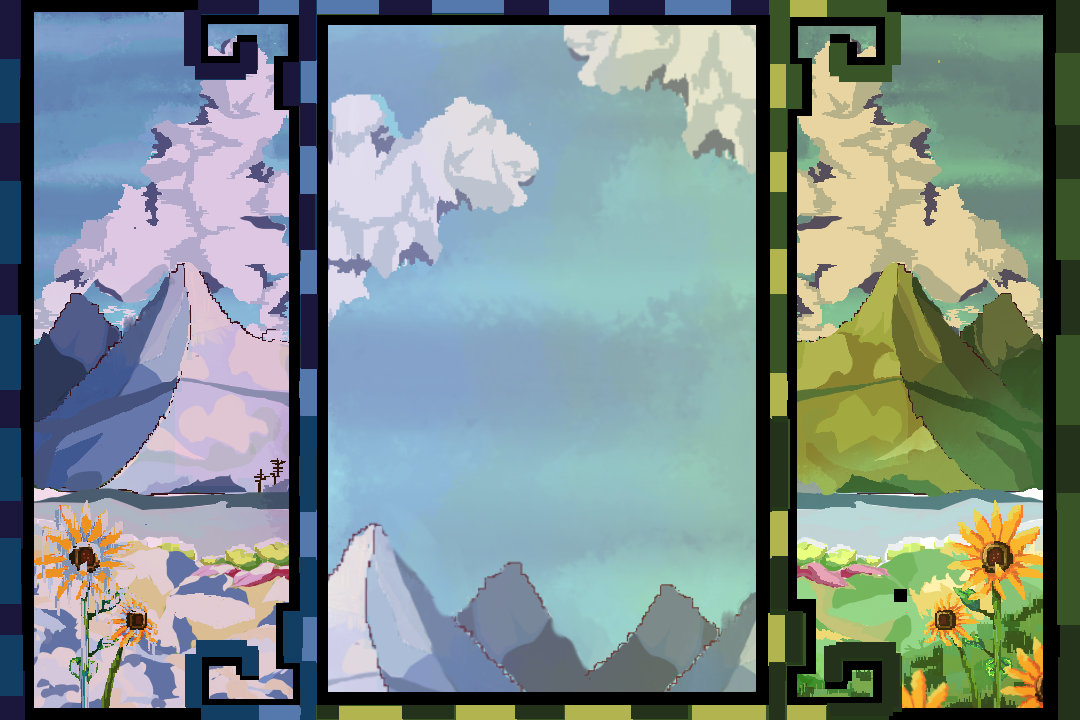
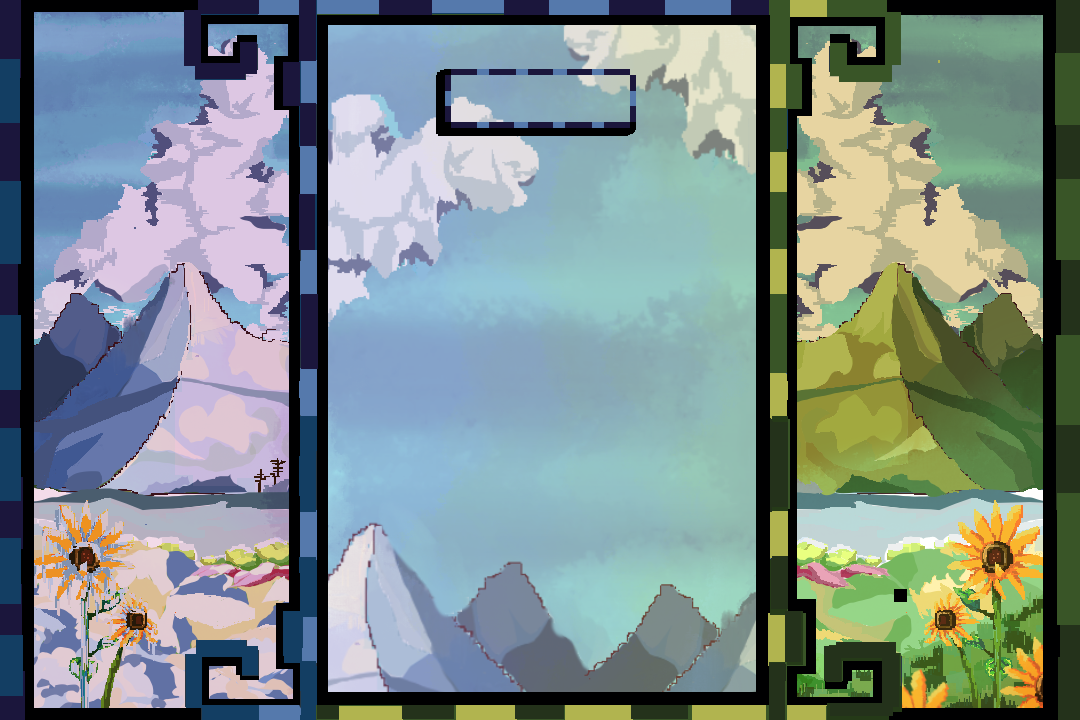
fix: Update-gameName

Changed region(s): [[0.3972, 0.0917, 0.6111, 0.2139]]

diff --git a/Game.java b/Game.java
@@ -11,8 +11,6 @@ import javax.sound.sampled.AudioInputStream;
 import javax.sound.sampled.AudioSystem;
 import javax.sound.sampled.LineEvent;   
 import javax.sound.sampled.LineListener;
-import java.io.File;
-import java.io.IOException;
 
 
 public class Game {
@@ -29,11 +27,13 @@ public class Game {
     private ImageIcon exitImg;
     private ImageIcon backgroundImage;
     private ImageIcon backImg;
+    private ImageIcon gameNameImg;
     private JLabel switchbackgroundJLabel;
     private JLabel scoreBox;
     private JLabel backgroundlabel;
     private JLabel timeBox;
     private JLabel countStart;
+    private JLabel gameName;
     private JButton backButton;
     private JButton playButton;
     private JButton exitButton;
@@ -45,7 +45,14 @@ public class Game {
     private boolean isStart = false;
     private String [] gameStartCount = {"  3","  2","  1"," GO!"};
     private int ind = 0;
-
+    
+    MouseAdapter labelMouseListener = new MouseAdapter() {
+        public void mousePressed(MouseEvent e) {
+            JLabel pressedLabel = (JLabel)e.getSource();
+            gameUpdate(pressedLabel);
+            playSound("src/sound/pop.wav");
+        }
+    };
     MouseAdapter wrongLabelListener = new MouseAdapter() {
         public void mousePressed(MouseEvent e) {
             JLabel pressedLabel = (JLabel)e.getSource();
@@ -54,19 +61,21 @@ public class Game {
             playSound("src/sound/quack.wav");
         }
     };
-    MouseAdapter  startGamelistener = new MouseAdapter() {
+    MouseAdapter startGamelistener = new MouseAdapter() {
         public void mouseClicked(MouseEvent e) {
             timeCounting = new Timer(1000,new ActionListener() {
-            public void actionPerformed(ActionEvent e) {
-                decreaseTimeCount();
-            }
-        });
-            gameStartCounting =  new Timer(1000, new ActionListener() {
-            public void actionPerformed(ActionEvent e ){
-                letsStart();
-            } 
-        });
-            if(playButton == (JButton)e.getSource()){
+                public void actionPerformed(ActionEvent e) {
+                    decreaseTimeCount();
+                }
+            });
+            gameStartCounting = new Timer(1000, new ActionListener() {
+                public void actionPerformed(ActionEvent e ) {
+                    letsStart();
+                }
+            });
+            if (playButton == (JButton)e.getSource()) {
+                switchbackgroundJLabel.remove(gameName);
+                switchbackgroundJLabel.repaint();
                 container.remove(switchbackgroundJLabel);
                 Components();
                 scoreBox();
@@ -82,14 +91,6 @@ public class Game {
             if(exitButton == (JButton)e.getSource()){
                 System.exit(0);
             }
-        }
-    };
-    
-    MouseAdapter labelMouseListener = new MouseAdapter() {
-        public void mousePressed(MouseEvent e) {
-            JLabel pressedLabel = (JLabel)e.getSource();
-            gameUpdate(pressedLabel);
-            playSound("src/sound/pop.wav");
         }
     };
     public static void main(String[] args) {
@@ -111,17 +112,18 @@ public class Game {
         backgroundlabel.setLayout(null);
 
         Components2();
+        showGameName(); // first time only.
 
         frame.setBounds(0, 0, FRAME_WIDTH, FRAME_HEIGHT);
         frame.setResizable(false);
         frame.setDefaultCloseOperation(JFrame.EXIT_ON_CLOSE);
-        frame.setLocationRelativeTo(null);//let the background in the middle
+        frame.setLocationRelativeTo(null); //let the background in the middle
         frame.setVisible(true);
     }
     private void decreaseTimeCount() {
         timeScedule -= 1;
         timeBox.setText("" + timeScedule);
-        if(timeScedule <= 0) {
+        if (timeScedule <= 0) {
             timeCounting.stop();
             container.remove(backgroundlabel);
             Components2();
@@ -132,18 +134,18 @@ public class Game {
             isStart = false;
             timeScedule = 60;
         }
-        if(timeScedule < 6){
+        if (timeScedule < 6) {
             timeBox.setForeground(new Color(255, 0, 0));
         }
     }
     private void letsStart(){
         ind++;
-        if(ind == gameStartCount.length) {
+        if (ind == gameStartCount.length) {
             gameStartCounting.stop();
             backgroundlabel.remove(countStart);
             container.repaint();
             
-            startFalling(7);
+            startFalling(15);
             timeCounting.start();
             ind = 0;
         }else {
@@ -166,7 +168,7 @@ public class Game {
     }
     private void textStartCount() {
         countStart = new JLabel(gameStartCount[ind]);
-        countStart.setBounds(FRAME_WIDTH/2 - (30*gameStartCount[3].length()),(FRAME_HEIGHT/2)-200,300,300);
+        countStart.setBounds(FRAME_WIDTH / 2  - (30 *gameStartCount[3].length()),(FRAME_HEIGHT/2)-200,300,300);
         countStart.setForeground(new Color(0, 0, 0));
         countStart.setFont(new Font("Comic Sans MS", Font.BOLD, 100));
         backgroundlabel.add(countStart, BorderLayout.CENTER);
@@ -184,20 +186,26 @@ public class Game {
         switchbackgroundJLabel.add(showScore, BorderLayout.CENTER);
         switchbackgroundJLabel.add(maxScoreLabel, BorderLayout.CENTER);
     }
+    private void showGameName() {
+        gameNameImg = new ImageIcon("src/img/gameName.png");
+        gameName = new JLabel(gameNameImg);
+        gameName.setBounds((FRAME_WIDTH / 2 - gameNameImg.getIconWidth() / 2) - 5, 75 , gameNameImg.getIconWidth(), gameNameImg.getIconHeight());
+        switchbackgroundJLabel.add(gameName);
+    }
     private void scoreBox() {
         Color textColor = new Color(255, 255, 255); // ตั้งค่าสี (RGB)
         Font font = new Font("Comic Sans MS", Font.BOLD, 25);
         scoreBox = new JLabel();
-        scoreBox.setBounds(60, 20, 150, 100);
+        scoreBox.setBounds(60, 30, 150, 100);
         backgroundlabel.add(scoreBox);
         scoreBox.setFont(font);
         scoreBox.setForeground(textColor);
         scoreBox.setText("Score: " + score);
 
         Color textColor2 = new Color(0, 0, 0); // ตั้งค่าสี (RGB)
-        Font font2 = new Font("Comic Sans MS", Font.BOLD, 60);
+        Font font2 = new Font("Comic Sans MS", Font.BOLD, 50);
         timeBox = new JLabel();
-        timeBox.setBounds((FRAME_WIDTH / 2) - 35, FRAME_HEIGHT / 20, 150, 100);
+        timeBox.setBounds((FRAME_WIDTH / 2) - 30, (FRAME_HEIGHT / 20) + 5, 150, 100);
         backgroundlabel.add(timeBox, BorderLayout.CENTER);
         timeBox.setFont(font2);
         timeBox.setForeground(textColor2);
@@ -221,37 +229,37 @@ public class Game {
         }
         scoreBox.setText("Score: " + score);
         clickedLabel.setVisible(false);
-
     }
     private void Components() {
-        backgroundImage = new ImageIcon("src/img/background.png");
+        backgroundImage = new ImageIcon("src/img/startbackground.png");
         backgroundlabel = new JLabel(backgroundImage);
         backgroundlabel.setLayout(null);
         container.add(backgroundlabel);
     }
     private void Components2() {
-        switchbackgroundImage = new ImageIcon("src/img/background.png");
-        switchbackgroundJLabel = new JLabel(backgroundImage);
+        switchbackgroundImage = new ImageIcon("src/img/startbackground.png");
+        switchbackgroundJLabel = new JLabel(switchbackgroundImage);
 
         backgroundlabel.setLayout(null);
         container.add(switchbackgroundJLabel);
         StartImg = new ImageIcon("src/img/start.png");
         playButton = new JButton();
         playButton.setIcon(StartImg);
-        playButton.setBounds(FRAME_WIDTH / 2 - StartImg.getIconWidth() / 2, FRAME_HEIGHT / 2 - StartImg.getIconHeight() / 2, StartImg.getIconWidth(), StartImg.getIconHeight());
+        playButton.setBounds(FRAME_WIDTH / 2 - StartImg.getIconWidth() / 2, 275, StartImg.getIconWidth(), StartImg.getIconHeight());
         playButton.setBorderPainted(false);
         playButton.setContentAreaFilled(false);
+        switchbackgroundJLabel.add(playButton, BorderLayout.CENTER);
+        playButton.addMouseListener(startGamelistener);
+        
         exitImg = new ImageIcon("src/img/EXIT.png");
         exitButton = new JButton();
         exitButton.setIcon(exitImg);
-        exitButton.setBounds(FRAME_WIDTH / 2 - exitImg.getIconWidth() / 2, FRAME_HEIGHT / 2 + StartImg.getIconHeight()/2 , exitImg.getIconWidth(), exitImg.getIconHeight());
+        exitButton.setBounds(FRAME_WIDTH / 2 - exitImg.getIconWidth() / 2, 470 , exitImg.getIconWidth(), exitImg.getIconHeight());
         exitButton.setBorderPainted(false);
         exitButton.setContentAreaFilled(false);
-        switchbackgroundJLabel.add(playButton);
-        playButton.addMouseListener(startGamelistener);
-        switchbackgroundJLabel.add(exitButton);
+        switchbackgroundJLabel.add(exitButton, BorderLayout.CENTER);
         exitButton.addMouseListener(exitGamelistener);
-        
+
     }
     private void playSound(String soundFilePath) {
         try {
@@ -308,7 +316,7 @@ public class Game {
             int positionX = rd.nextInt(maxX - minX + 1) + minX;
             final int[] positionY = {0};
             final double[] velocity = {isStart ? velo : FRAME_HEIGHT};
-            final double[] acceleration = {0.1};
+            final double[] acceleration = {0.5};
             label.setVisible(true);
             Timer timer = new Timer(17, new ActionListener() {
                 @Override
